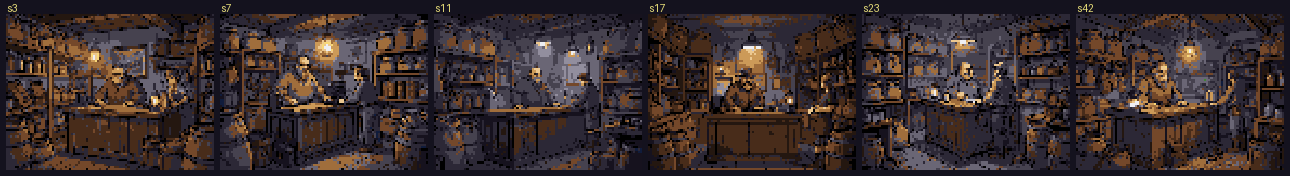
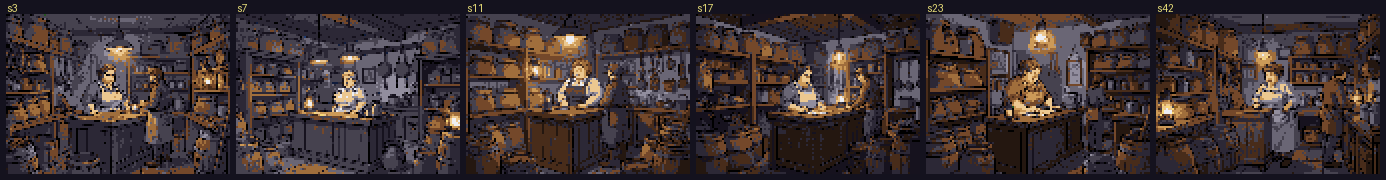
W8 interiors: import int_greta s11 (female) — batch complete
Dan picked Greta s11 from the female regen. Stout matronly aproned shopkeeper
behind the counter with stocked shelves and a customer. Imported at 112x80,
renamed int_greta_a -> int_greta to replace the procedural sprite.

All 9 building interiors are now AI art at 112x80 (hall, greta, review, temple,
spark, goose, hart, tannery, belltower). W8 interiors batch complete. 42/42 tests.

diff --git a/art-review/art-review.md b/art-review/art-review.md
@@ -648,3 +648,8 @@ shopkeeper, so her subject was rewritten female and she regenerates fresh at
 448×320 (`generate_interiors.py --id int_greta`), then imports as the 9th.
 Open follow-up: if 112×80 reads better in-game, consider re-crushing the
 monsters/showpieces/portraits to 112-wide too (no-GPU re-crush + re-import pass).
+
+**int_greta IMPORTED s11 (2026-06-11)** — female Greta (stout matronly aproned
+shopkeeper behind the counter, stocked shelves, customer) at 112×80, renamed to
+replace the procedural. **All 9 interiors now AI art at 112×80. W8 interiors
+batch COMPLETE.**
